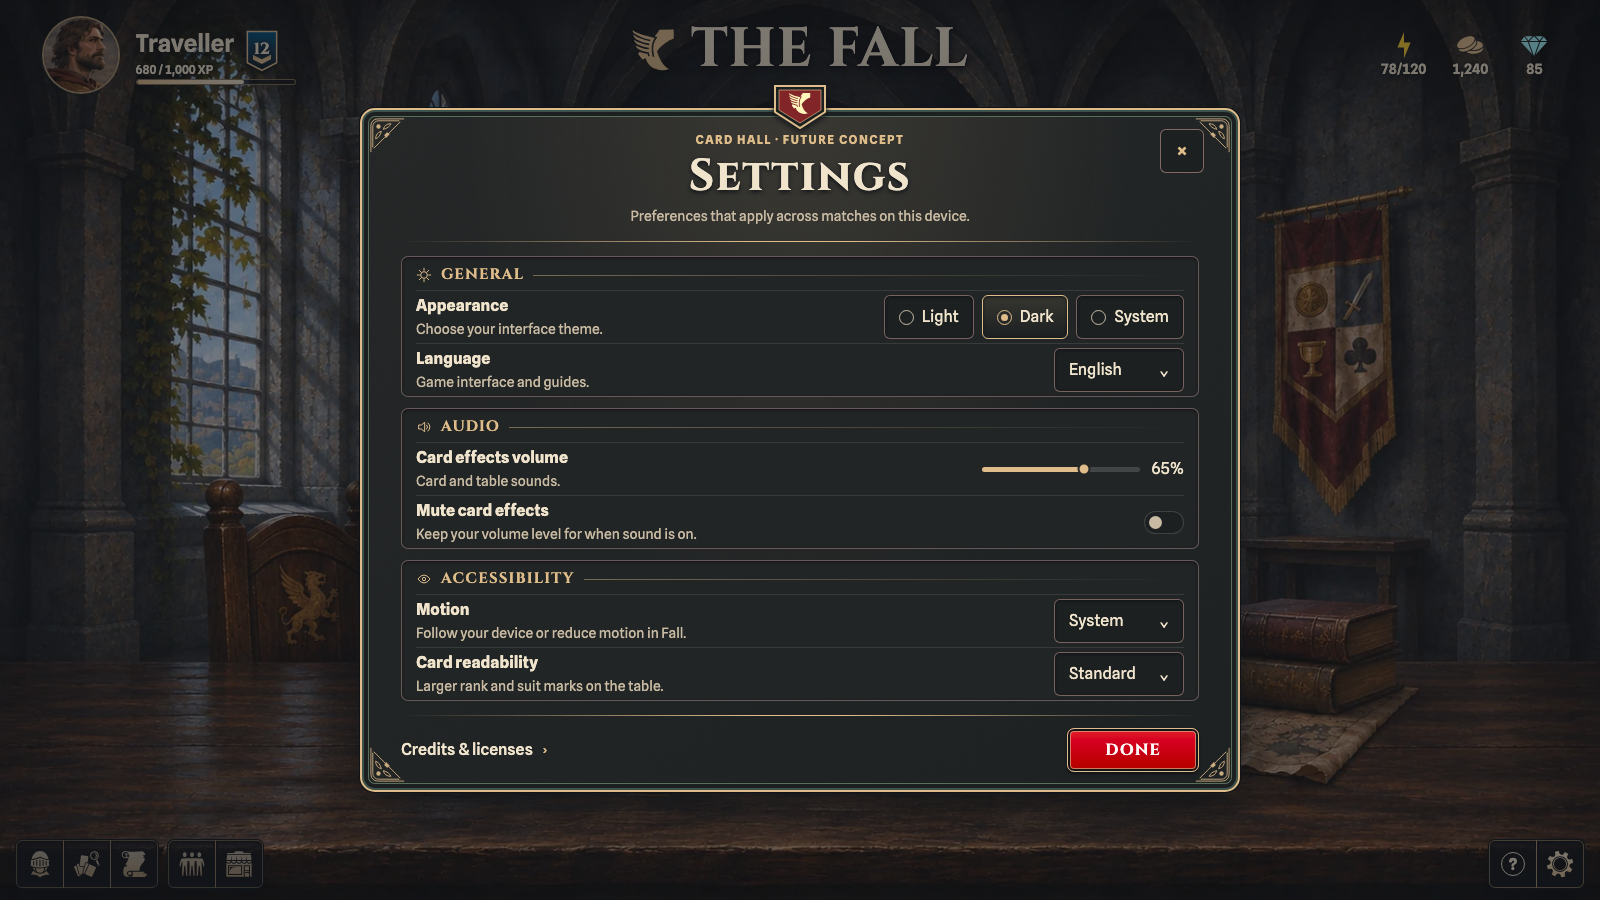
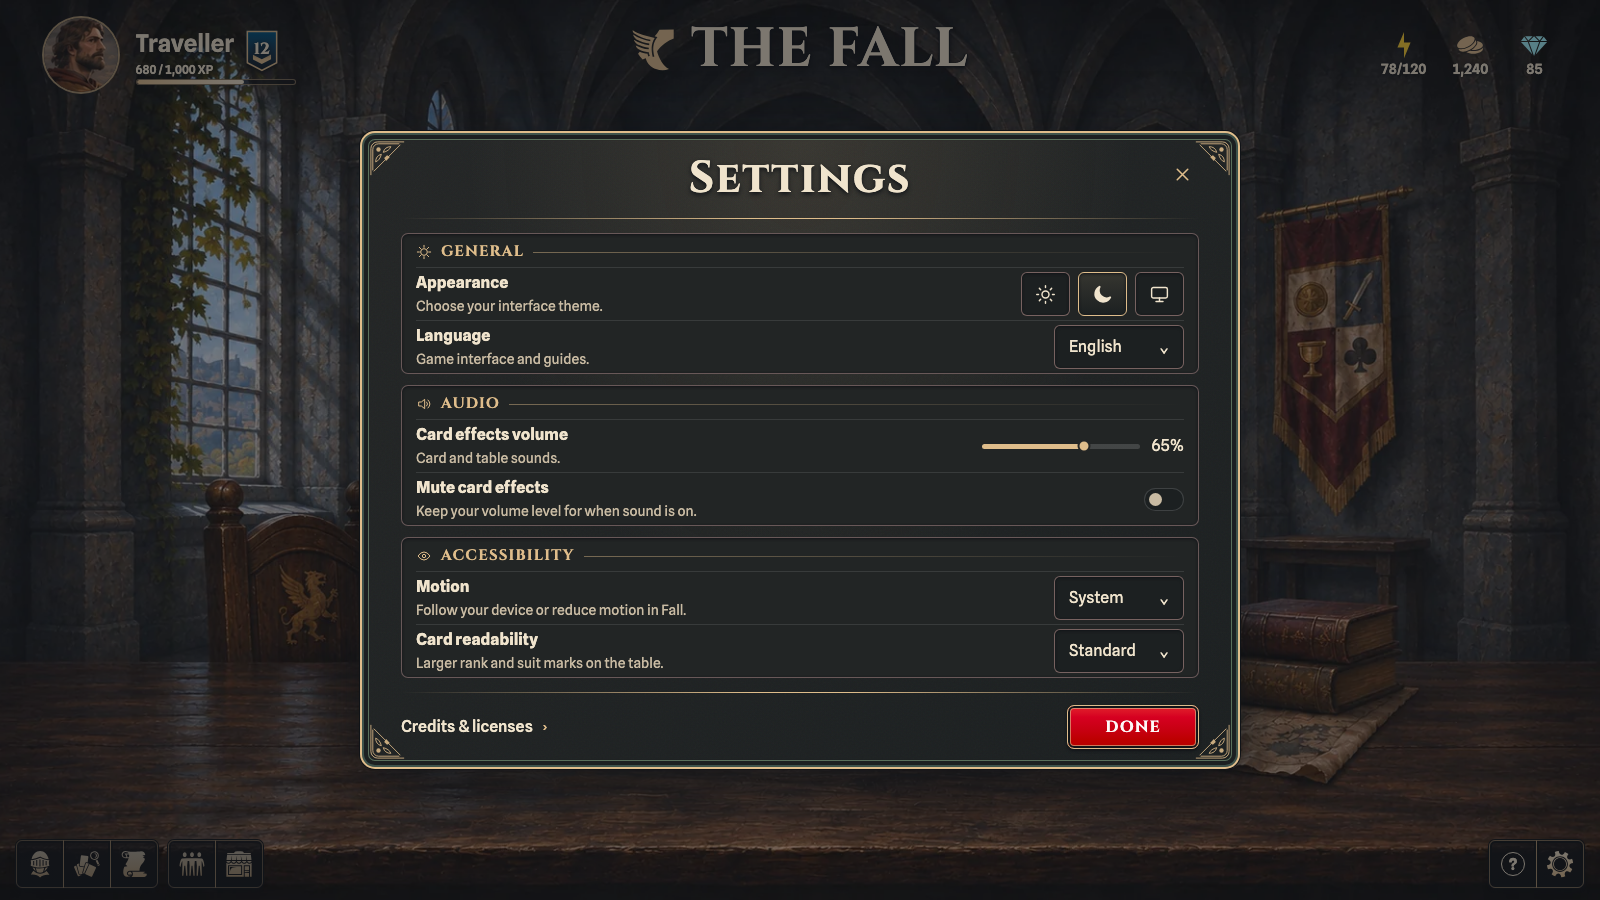
[GHI#104] Simplify settings and Help mockup controls

Changed region(s): [[0.2188, 0.0933, 0.7812, 0.9022], [0.5625, 0.3111, 0.75, 0.4356], [0.625, 0.4667, 0.75, 0.6222]]

diff --git a/docs/design/settings/README.md b/docs/design/settings/README.md
@@ -9,8 +9,8 @@ All three images were captured at 1600 × 900 over the existing Card Hall on por
 | Study | What it shows |
 | --- | --- |
 | [Simplified Settings](settings-simple.png) | The flat treatment of General, Audio, and Accessibility, with quiet borders and a compact title. |
-| [Detailed Settings](settings-detailed.png) | The same controls and section order with an engraved brass frame, Wingfoot crest, textured charcoal, recessed controls, and a framed red action. The ornament draws on [the detailed login](../main-menu-research/image-concepts/login-detailed.png) and [the detailed Hall study](../main-menu-research/image-concepts/card-hall-background-2.png). |
-| [Hub Help](hub-help.png) | A Help entry next to the gear, in the slot currently occupied by the disabled Messages shortcut. The open panel links to the rules and Sings reference. |
+| [Detailed Settings](settings-detailed.png) | The same controls and section order with an engraved brass frame, textured charcoal, recessed controls, and a framed red action. The ornament draws on [the detailed login](../main-menu-research/image-concepts/login-detailed.png) and [the detailed Hall study](../main-menu-research/image-concepts/card-hall-background-2.png). |
+| [Hub Help](hub-help.png) | A Help entry next to the gear, in the slot currently occupied by the disabled Messages shortcut. The open panel shows two links with short descriptions. |
 
 Both Settings images use the expanded preference set to compare visual style. The #104 release scope still starts with Appearance and Credits & licenses, with the Animation Playground available in development.
 
@@ -59,7 +59,7 @@ Expose only implemented controls. Both Settings studies show a plausible first e
 ## Layout, motion, and acceptance
 
 - Use a centered dialog over the existing Hall on desktop. On portrait use a near-full-width inset sheet. In short landscape constrain the height to the safe area, scroll the content, and keep the close action visible. Use 44px minimum targets and let controls stack when copy wraps.
-- Reuse Card Hall’s Cinzel and Spline Sans typography, the shared gold trim, and semantic surfaces, foregrounds, and focus rings in both themes. Mark the selected appearance with a filled radio indicator as well as color.
-- Use the existing dialog primitives for modal focus and dismissal. Restore focus to the gear after Done, Close, Escape, or backdrop dismissal. Help opens from its own trigger, restores focus on dismissal, and becomes an inset sheet when the anchored panel will not fit. Focus the guide heading on navigation and give direct visits an explicit return to the Hall.
+- Reuse Card Hall’s Cinzel and Spline Sans typography, the shared gold trim, and semantic surfaces, foregrounds, and focus rings in both themes. Use a sun, moon and monitor for Light, Dark and System. Give each icon an accessible name and a label on hover and keyboard focus. Combine a filled glyph and a visible border for the selected choice.
+- Use the existing dialog primitives for modal focus and dismissal. Restore focus to the gear after Done, Close, Escape, or backdrop dismissal. The Help trigger toggles its panel. Escape dismisses it and returns focus to the trigger. Use an inset panel when the anchored layout will not fit. Focus the guide heading on navigation and give direct visits an explicit return to the Hall.
 - Use GSAP for a short scrim fade and small panel lift, around 160–180ms. Reduced motion applies the final states immediately. Keep underlying Hall motion stationary while Settings is open, disable inherited primitive transitions, and clean up the GSAP context. Treat the Hall art as decorative.
 - During implementation, verify both themes and System persistence, keyboard focus and dismissal, the Help and guide return paths, in-match Sings access, attributions, development-only gating, and scroll reachability at 320px portrait and 568×320 landscape. The images are desktop design studies.
